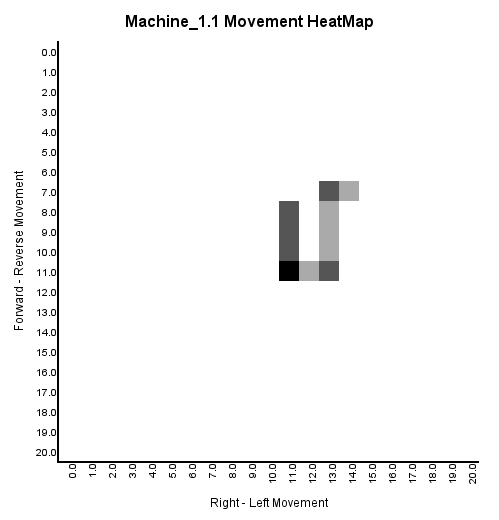
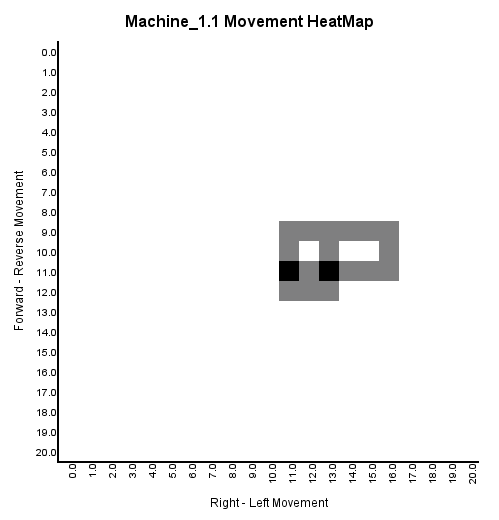
Improved heatmap signatures

Changed region(s): [[0.5411, 0.3385, 0.8116, 0.5846]]

diff --git a/IntelliJ/NavigationAndSurveillanceController/src/main/java/NavigationPanelController.java b/IntelliJ/NavigationAndSurveillanceController/src/main/java/NavigationPanelController.java
@@ -91,6 +91,8 @@ public class NavigationPanelController {
     HeatChart heatChartObj;
     double[][] heatChartData = new double[21][21];
     double i = 11, j = 11;
+//    double i = 11, j = 0;
+
     double ori_i = i;
     double ori_j = j;
 
@@ -98,23 +100,28 @@ public class NavigationPanelController {
     double desti_j = j;
 
     /** heatChart data generation */
-    public void heatChartGenerate(String direction, long distance){
+    public void heatChartGenerator(String direction, long distance){
 
         ori_i = desti_i;
         ori_j = desti_j;
 
-        if(direction.equals("Forward")){
-            desti_i -= distance;
-            desti_j = ori_j;
-        }else if(direction.equals("Left")){
-            desti_i = ori_i;
-            desti_j -= distance;
-        }else if(direction.equals("Right")){
-            desti_i = ori_i;
-            desti_j += distance;
-        }else if(direction.equals("Reverse")){
-            desti_i += distance;
-            desti_j = ori_j;
+        switch (direction) {
+            case "Forward":
+                desti_i -= distance;
+                desti_j = ori_j;
+                break;
+            case "Left":
+                desti_i = ori_i;
+                desti_j -= distance;
+                break;
+            case "Right":
+                desti_i = ori_i;
+                desti_j += distance;
+                break;
+            case "Reverse":
+                desti_i += distance;
+                desti_j = ori_j;
+                break;
         }
 
         double m = ori_i;
@@ -122,30 +129,26 @@ public class NavigationPanelController {
         System.out.println("ori_i : " + ori_i + "ori_j : " + ori_j);
         System.out.println("desti_i : " + desti_i + "desti_j : " + desti_j);
 
-        /** forward marking **/
-        while(m >= desti_i && direction.equals("Forward")){
+        /** Forward marking **/
+        while(m > desti_i && direction.equals("Forward")){
             heatChartData[(int) m][(int) n] += 1;
             m--;
         }
         /** Reverse  marking **/
-        while(m <= desti_i && direction.equals("Reverse")){
+        while(m < desti_i && direction.equals("Reverse")){
             heatChartData[(int) m][(int) n] += 1;
             m++;
         }
         /** Left  marking **/
-        while(n >= desti_j && direction.equals("Left")){
+        while(n > desti_j && direction.equals("Left")){
             heatChartData[(int) m][(int) n] += 1;
             n--;
         }
         /** Right  marking **/
-        while(n <= desti_j && direction.equals("Right")){
+        while(n < desti_j && direction.equals("Right")){
             heatChartData[(int) m][(int) n] += 1;
             n++;
         }
-
-
-
-
 
     }
 
@@ -189,7 +192,7 @@ public class NavigationPanelController {
 
                 direction = "Forward";
                 distance = keyPressLength/1000;
-                heatChartGenerate(direction, distance);
+                heatChartGenerator(direction, distance);
 
             }else{
                 systemLogTA_ID.appendText("Forward : " + keyPressLength%1000 + " millisec");
@@ -211,7 +214,7 @@ public class NavigationPanelController {
 
                 direction = "Left";
                 distance = keyPressLength/1000;
-                heatChartGenerate(direction, distance);
+                heatChartGenerator(direction, distance);
 
             }else{
                 systemLogTA_ID.appendText("Left        : " + keyPressLength%1000 + " millisec");
@@ -235,7 +238,7 @@ public class NavigationPanelController {
 
                 direction = "Reverse";
                 distance = keyPressLength/1000;
-                heatChartGenerate(direction, distance);
+                heatChartGenerator(direction, distance);
 
             }else{
                 systemLogTA_ID.appendText("Reverse : " + keyPressLength%1000 + " millisec");
@@ -257,7 +260,7 @@ public class NavigationPanelController {
 
                 direction = "Right";
                 distance = keyPressLength/1000;
-                heatChartGenerate(direction, distance);
+                heatChartGenerator(direction, distance);
 
             }else{
                 systemLogTA_ID.appendText("Right     : " + keyPressLength%1000 + " millisec");

diff --git a/IntelliJ/NavigationAndSurveillanceController/src/main/java/Main.java b/IntelliJ/NavigationAndSurveillanceController/src/main/java/Main.java
@@ -19,8 +19,8 @@ public class Main extends Application {
     public void start(Stage primaryStage) throws IOException {
 
 
-        Parent LoginView = FXMLLoader.load(Objects.requireNonNull(getClass().getClassLoader().getResource("LoginView.fxml")));
-//        Parent LoginView = FXMLLoader.load(Objects.requireNonNull(getClass().getClassLoader().getResource("NavigationPanelView.fxml")));
+//        Parent LoginView = FXMLLoader.load(Objects.requireNonNull(getClass().getClassLoader().getResource("LoginView.fxml")));
+        Parent LoginView = FXMLLoader.load(Objects.requireNonNull(getClass().getClassLoader().getResource("NavigationPanelView.fxml")));
         Scene LoginViewScene = new Scene(LoginView);
         primaryStage.setScene(LoginViewScene);
         primaryStage.setTitle("Navigation&Surveillance Controller");
